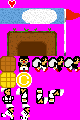
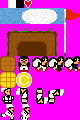
update: color palette faeture

Changed region(s): [[0.1, 0.0, 0.4, 0.075]]

diff --git a/src/screen.py b/src/screen.py
@@ -39,7 +39,7 @@ class ScStageClock(Screen):
     
     def draw(self):
         stage_state_entity, stage_state = self.world.get_component(StageState)[0]
-        pyxel.text(2, 2, f"TIME: {stage_state.time_remaining:.1f}", 4)
+        pyxel.text(2, 2, f"TIME: {stage_state.time_remaining:.1f}", 1)
 
 class ScGameOver(Screen):
     def __init__(self, world, priority: int = 0) -> None:
@@ -48,7 +48,7 @@ class ScGameOver(Screen):
     def draw(self):
         stage_state_entity, stage_state = self.world.get_component(StageState)[0]
         if stage_state.game_over:
-            pyxel.text(pyxel.width//2, pyxel.height//2, "GAME OVER", 4)
+            pyxel.text(pyxel.width//2, pyxel.height//2, "GAME OVER", 1)
 
 class ScGoal(Screen):
     def __init__(self, world, priority: int = 0) -> None:
@@ -57,7 +57,7 @@ class ScGoal(Screen):
     def draw(self):
         stage_state_entity, stage_state = self.world.get_component(StageState)[0]
         if stage_state.is_goal:
-            pyxel.text(pyxel.width//2, pyxel.height//2, "GOAL!", 4)
+            pyxel.text(pyxel.width//2, pyxel.height//2, "GOAL!", 1)
 
 class ScEnemy(Screen):
     def __init__(self, world, priority: int = 0) -> None:
@@ -81,6 +81,18 @@ class ScEnemy(Screen):
                 body.height,  # height
                 0  # colorkey
             )
+            
+class ScDebugColorPalette(Screen):
+    def __init__(self, world, priority: int = 0) -> None:
+        super().__init__(world, priority)
+    
+    def draw(self):
+        base_x = 120
+        base_y = 2
+        for x in range(8):
+            for y in range(3):
+                color_id = x + y*8
+                pyxel.rect(base_x + x*8, base_y + y*8, 8, 8, color_id)
 
 class ScDebugPlayer(Screen):
     def __init__(self, world, priority: int = 0) -> None:
@@ -88,7 +100,7 @@ class ScDebugPlayer(Screen):
     
     def draw(self):
         for entity, (_, position) in self.world.get_components(Player, Position2D):
-            pyxel.text(50, 2, f"x: {position.x:.1f}, y: {position.y:.1f}", 7)
+            pyxel.text(50, 2, f"x: {position.x:.1f}, y: {position.y:.1f}", 1)
 
 class ScCoin(Screen):
     def __init__(self, world, priority: int = 0) -> None:

diff --git a/src/main.py b/src/main.py
@@ -15,39 +15,6 @@ COINS_POSITIONS = [
     (8*36, 8*10),
 ]
 
-def get_coin_positions_from_tilemap(tilemap_id: int = 7) -> list[tuple[int, int]]:
-    """Convert coin tilemap to list of coin positions.
-    
-    Args:
-        tilemap_id (int): Tilemap ID for coins (default: 7)
-    
-    Returns:
-        list[tuple[int, int]]: List of coin positions in pixel coordinates [(x, y), ...]
-    """
-    coin_positions = []
-    coins_pixels_width = 2
-    coins_pixels_height = 2
-    
-    # Get tilemap dimensions
-    tilemap = pyxel.tilemaps[tilemap_id]
-    # width, height = tilemap.width, tilemap.height
-    height = 20
-    width = 120
-    
-    # Scan each tile
-    for y in range(0, height, coins_pixels_height):
-        for x in range(0, width, coins_pixels_width):
-            col, colkey = tilemap.pget(x, y)
-            print(col, colkey)
-            if col != 0:  # Non-zero means coin placement
-                # Convert tile coordinates to pixel coordinates
-                pixel_x = x * 8
-                pixel_y = y * 8
-                coin_positions.append((pixel_x, pixel_y))
-    
-    print(coin_positions)
-    return coin_positions
-
 class Game(World):
     def __init__(self):
         super().__init__()
@@ -129,6 +96,7 @@ if __name__ == "__main__":
     
     ## Debug
     game.add_screen_to_scenes(ScDebugPlayer, "playable", 5000)
+    game.add_screen_to_scenes(ScDebugColorPalette, "playable", 5001)
     
     ## Coin
     game.add_screen_to_scenes(ScCoin, "playable", 50)
